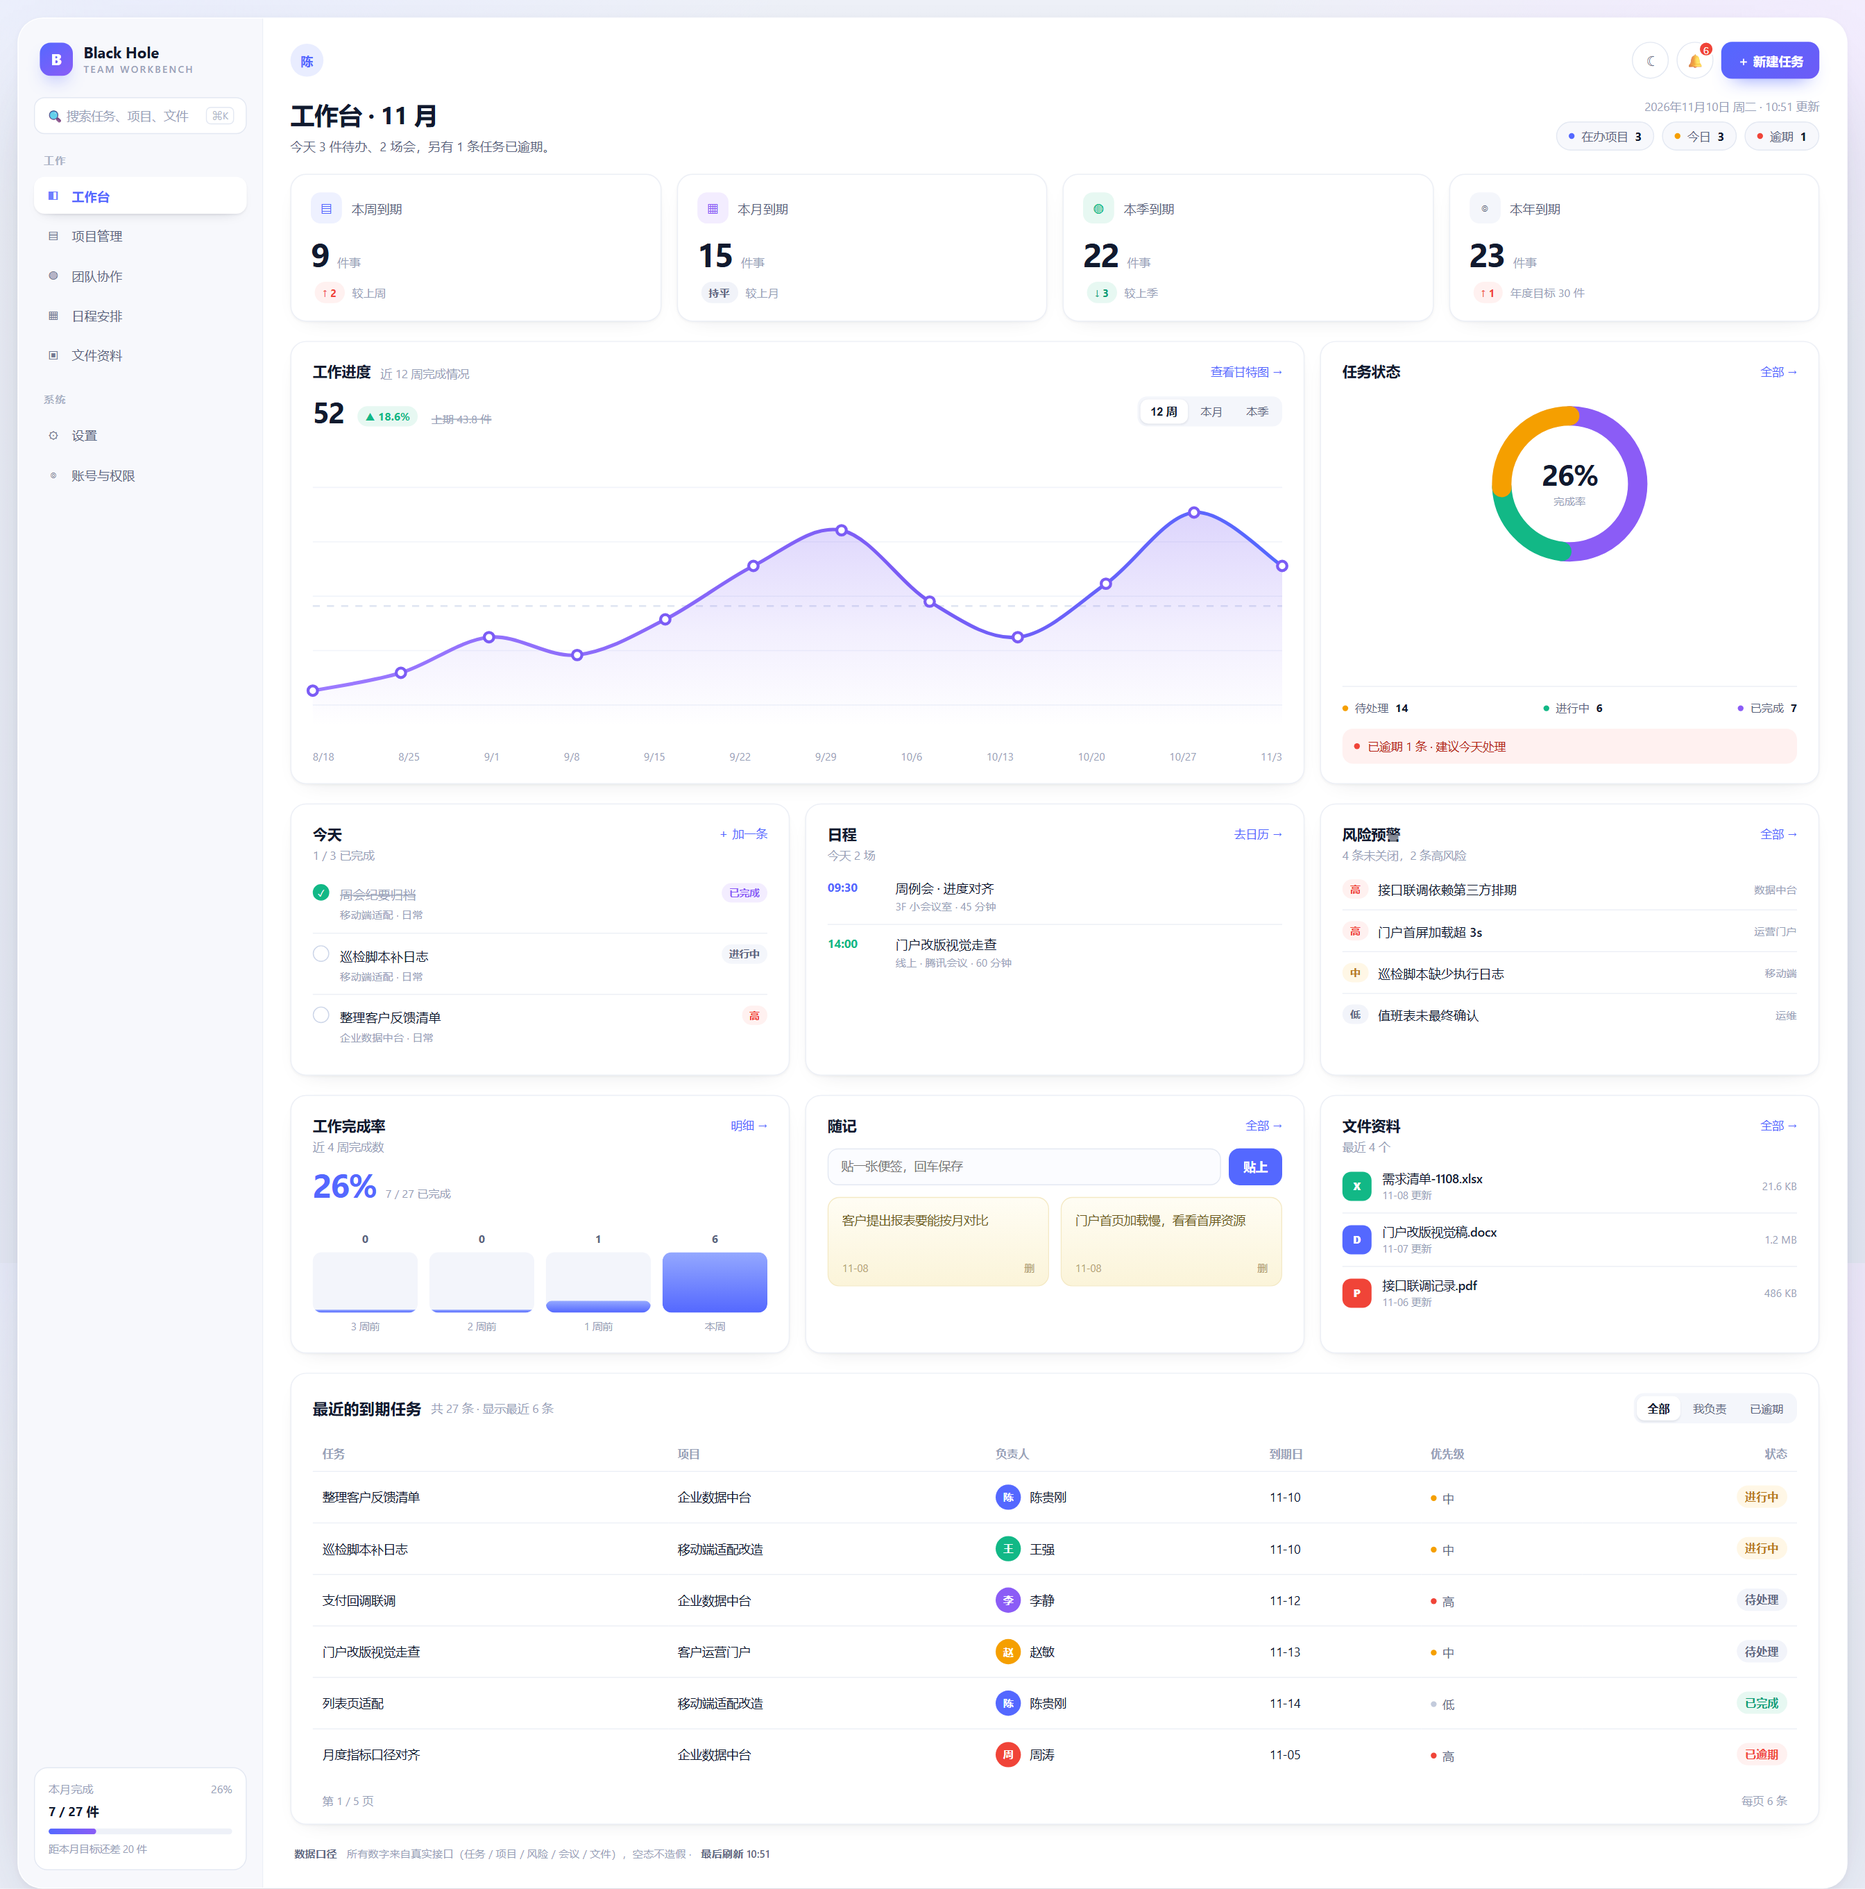
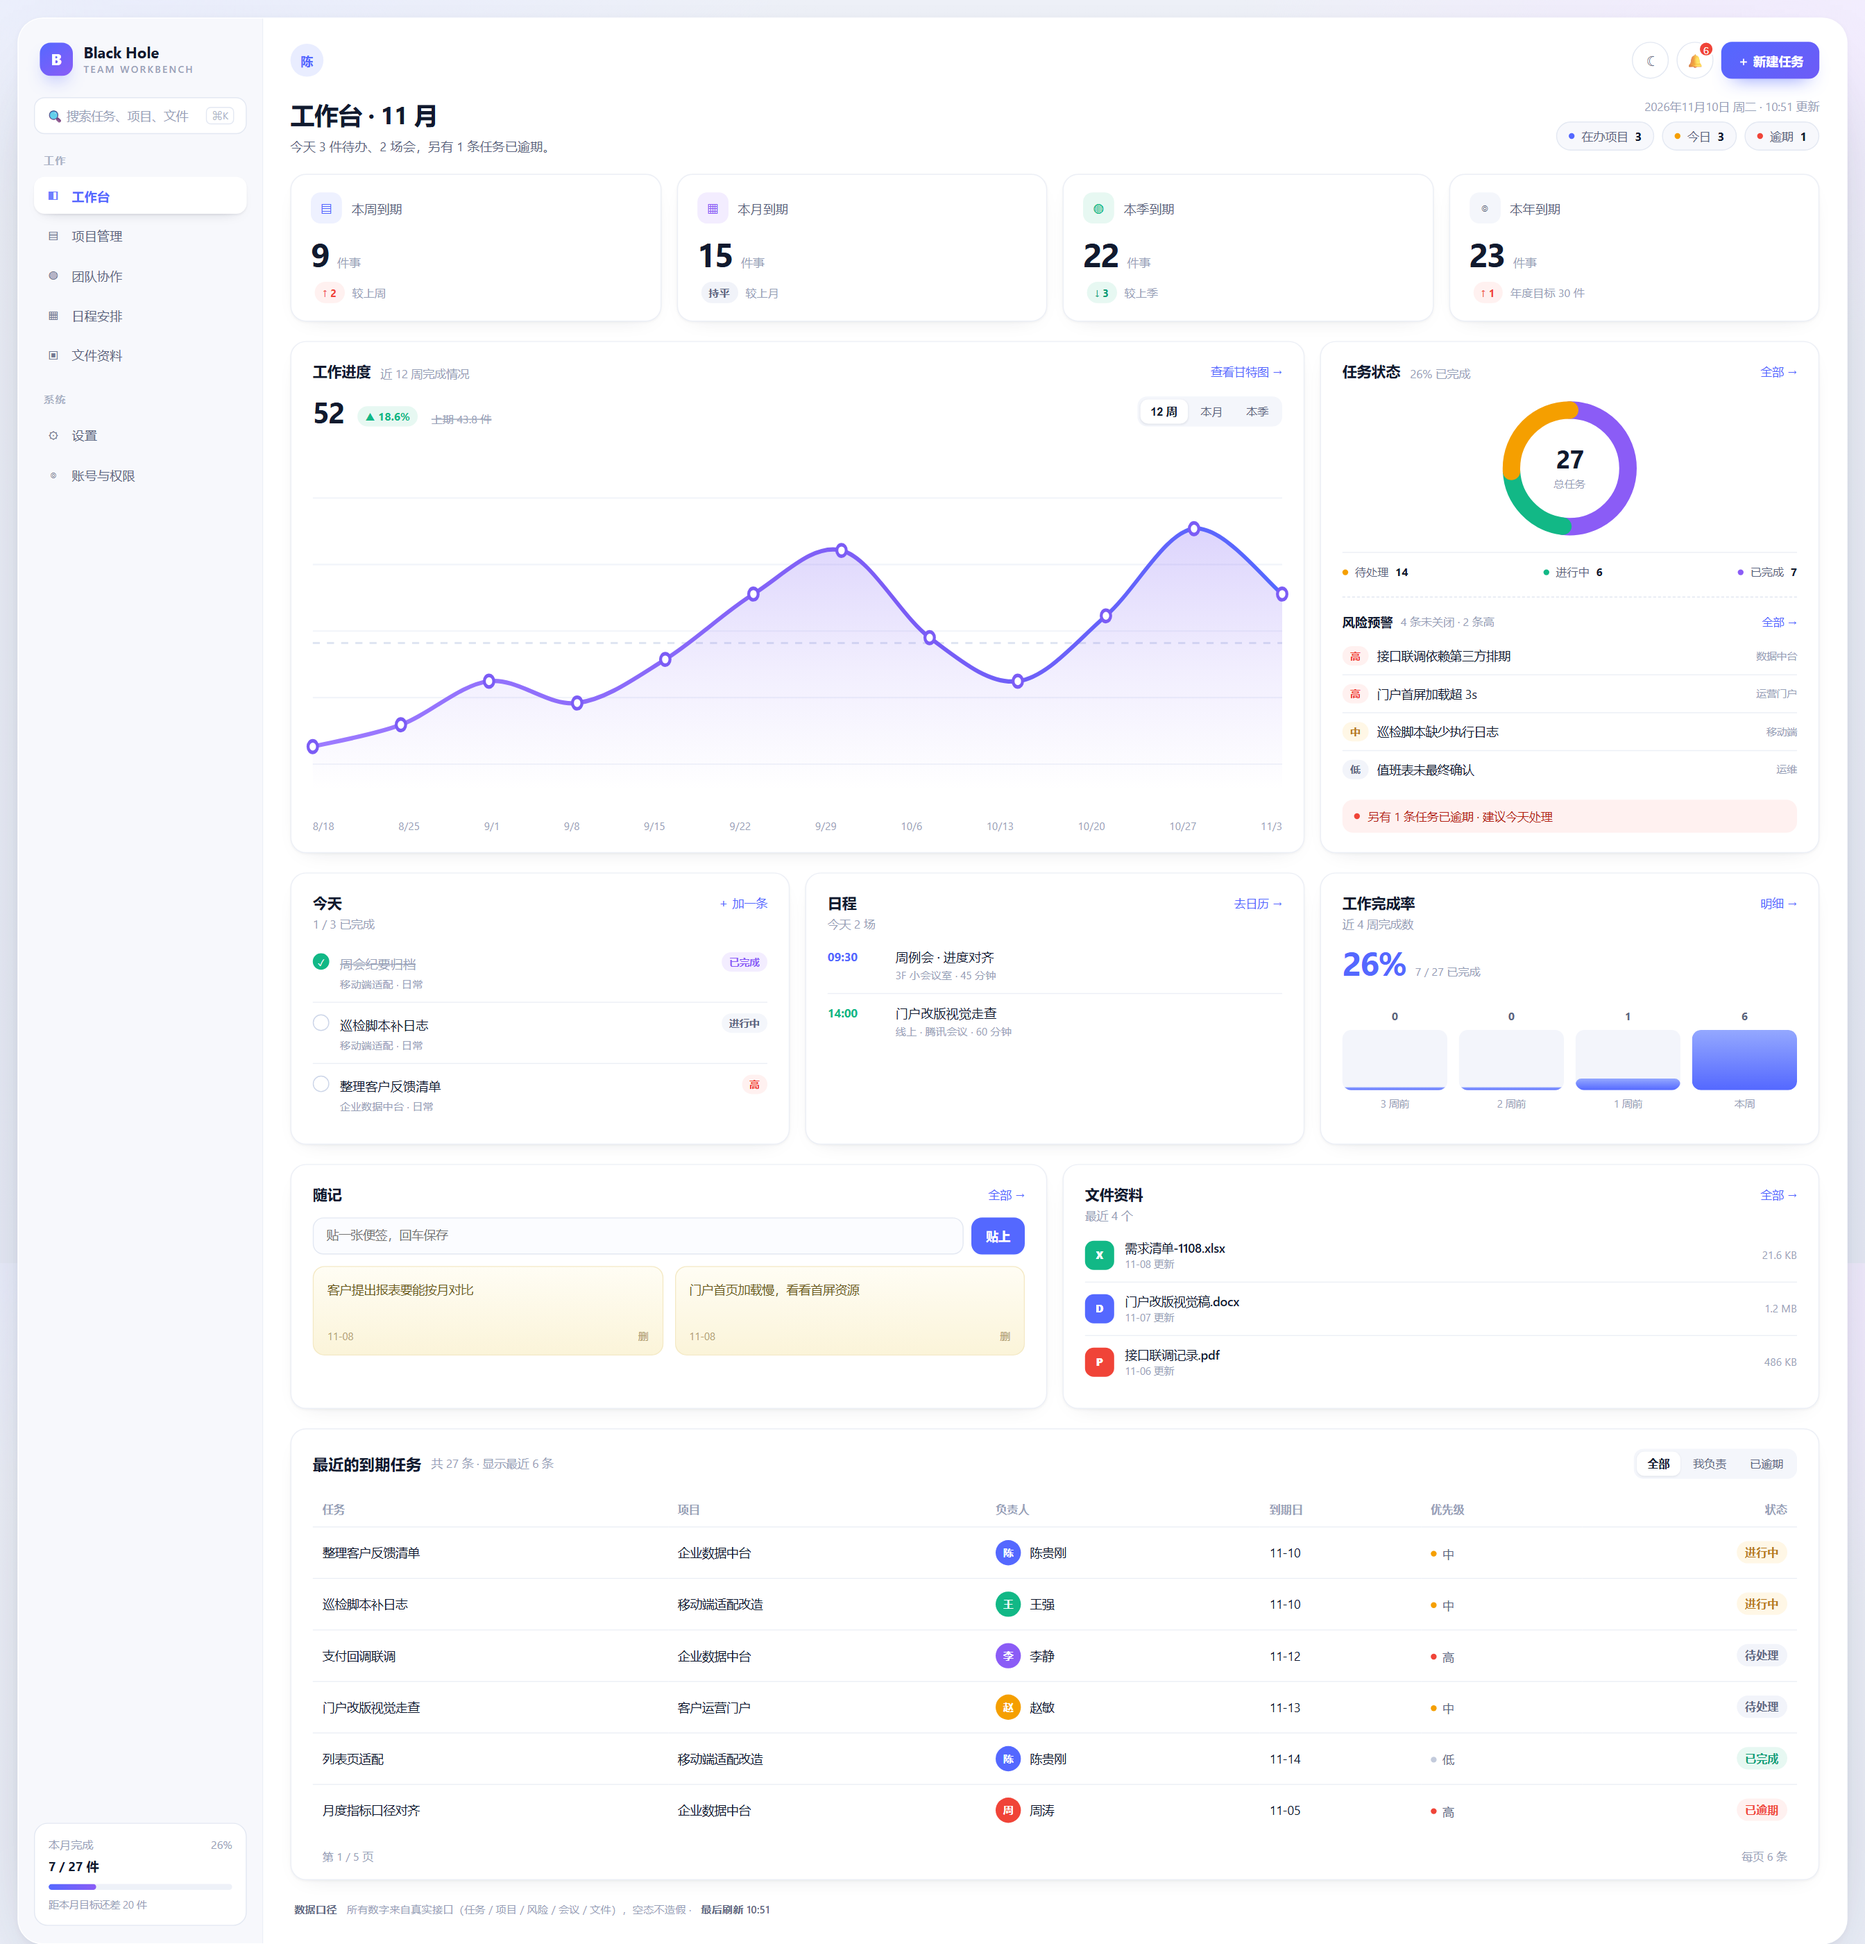
docs(demo): 风险预警并入任务状态卡，完成率补位成三列（方案 B 修订）
- 任务状态卡：环图(152) + 总任务数 + 三行图例 + 虚线分隔的「风险预警」小节(4 条)
  + 底部逾期提示 —— 原来那片空白被填满，风险也不用单独占一格
- 删掉独立的「风险预警」卡；工作完成率补到 今天/日程 这一行，凑成整齐三块
- 随记、文件资料从 4 列改 6 列，横向更舒展
- 自检：12 个卡块、表格 6 行、无 console 错误

diff --git a/docs/demo/workbench-demo.html b/docs/demo/workbench-demo.html
@@ -148,7 +148,17 @@
   .lg{display:flex;justify-content:space-between;margin-top:auto;padding-top:14px;border-top:1px solid var(--line)}
   .lg div{display:flex;align-items:center;gap:7px;font-size:11.5px;color:var(--text-2)}
   .lg b{color:var(--text);font-weight:700}
-  .warn-strip{display:flex;align-items:center;gap:8px;margin-top:14px;padding:10px 12px;border-radius:11px;background:var(--red-soft);font-size:12px;color:#b42318}
+  .warn-strip{display:flex;align-items:center;gap:8px;margin-top:12px;padding:9px 12px;border-radius:11px;background:var(--red-soft);font-size:12px;color:#b42318}
+  /* 任务状态卡里的风险小节（与状态用一条虚线分隔，不再单独占一格） */
+  .subsec{display:flex;align-items:center;gap:8px;margin:18px 0 2px;padding-top:16px;border-top:1px dashed var(--line-2)}
+  .subsec h4{margin:0;font-size:13px;font-weight:700}
+  .subsec .cnt{font-size:11.5px;color:var(--muted)}
+  .subsec .more{margin-left:auto;font-size:11.5px;color:var(--brand);text-decoration:none}
+  .risk-mini{display:flex;flex-direction:column;margin-top:6px}
+  .rm{display:grid;grid-template-columns:auto minmax(0,1fr) auto;gap:9px;align-items:center;padding:9px 0}
+  .rm + .rm{border-top:1px solid var(--line)}
+  .rm .tt{font-size:12.5px;overflow:hidden;text-overflow:ellipsis;white-space:nowrap}
+  .rm .pj{font-size:10.5px;color:var(--muted);white-space:nowrap}
 
   /* 三列小卡 */
   .c4{grid-column:span 4}
@@ -193,7 +203,7 @@
   .bc .lb{font-size:10.5px;color:var(--muted);white-space:nowrap}
 
   /* 便签 */
-  .notes{grid-column:span 4}
+  .notes{grid-column:span 6}
   .note-add{display:flex;gap:8px;margin:14px 0 12px}
   .note-add input{flex:1;height:38px;border-radius:11px;border:1px solid var(--line-2);background:#fbfcff;padding:0 13px;font-size:12.5px;outline:none;transition:.15s}
   .note-add input:focus{border-color:#c2cdff;box-shadow:0 0 0 3px rgba(84,104,255,.1);background:#fff}
@@ -204,7 +214,7 @@
   .sticky .f{display:flex;justify-content:space-between;font-size:10.5px;color:#b3a271;margin-top:8px}
 
   /* 文件 */
-  .files{grid-column:span 4}
+  .files{grid-column:span 6}
   .file{display:grid;grid-template-columns:30px minmax(0,1fr) auto;gap:11px;align-items:center;padding:11px 0}
   .file + .file{border-top:1px solid var(--line)}
   .file .ic{width:30px;height:30px;border-radius:9px;display:grid;place-items:center;font-size:11px;font-weight:800;color:#fff}
@@ -384,25 +394,39 @@
       </div>
 
       <div class="card status-card">
-        <div class="card-h"><h3>任务状态</h3><a class="more" href="#">全部 →</a></div>
-        <div class="donut">
-          <svg width="176" height="176" viewBox="0 0 176 176">
-            <circle cx="88" cy="88" r="70" fill="none" stroke="#f2f4fa" stroke-width="20"/>
-            <circle cx="88" cy="88" r="70" fill="none" stroke="#8b5cf6" stroke-width="20" stroke-linecap="round"
-                    stroke-dasharray="227.8 439.8" stroke-dashoffset="0" transform="rotate(-90 88 88)"/>
-            <circle cx="88" cy="88" r="70" fill="none" stroke="#12b886" stroke-width="20" stroke-linecap="round"
-                    stroke-dasharray="97.7 439.8" stroke-dashoffset="-227.8" transform="rotate(-90 88 88)"/>
-            <circle cx="88" cy="88" r="70" fill="none" stroke="#f59f00" stroke-width="20" stroke-linecap="round"
-                    stroke-dasharray="114.3 439.8" stroke-dashoffset="-325.5" transform="rotate(-90 88 88)"/>
+        <div class="card-h"><h3>任务状态</h3><span class="card-sub">26% 已完成</span><a class="more" href="#">全部 →</a></div>
+
+        <div class="donut" style="margin:10px 0 2px">
+          <svg width="152" height="152" viewBox="0 0 152 152">
+            <circle cx="76" cy="76" r="60" fill="none" stroke="#f2f4fa" stroke-width="18"/>
+            <circle cx="76" cy="76" r="60" fill="none" stroke="#8b5cf6" stroke-width="18" stroke-linecap="round"
+                    stroke-dasharray="195.3 377" stroke-dashoffset="0" transform="rotate(-90 76 76)"/>
+            <circle cx="76" cy="76" r="60" fill="none" stroke="#12b886" stroke-width="18" stroke-linecap="round"
+                    stroke-dasharray="83.8 377" stroke-dashoffset="-195.3" transform="rotate(-90 76 76)"/>
+            <circle cx="76" cy="76" r="60" fill="none" stroke="#f59f00" stroke-width="18" stroke-linecap="round"
+                    stroke-dasharray="97.9 377" stroke-dashoffset="-279.1" transform="rotate(-90 76 76)"/>
           </svg>
-          <div class="center"><b>26%</b><span>完成率</span></div>
+          <div class="center"><b style="font-size:26px">27</b><span>总任务</span></div>
         </div>
-        <div class="lg">
+
+        <div class="lg" style="margin-top:8px;padding-top:12px">
           <div><i class="sp" style="background:#f59f00"></i>待处理 <b>14</b></div>
           <div><i class="sp" style="background:#12b886"></i>进行中 <b>6</b></div>
           <div><i class="sp" style="background:#8b5cf6"></i>已完成 <b>7</b></div>
         </div>
-        <div class="warn-strip"><i class="sp" style="background:#f04438"></i>已逾期 1 条 · 建议今天处理</div>
+
+        <div class="subsec">
+          <h4>风险预警</h4><span class="cnt">4 条未关闭 · 2 条高</span>
+          <a class="more" href="#">全部 →</a>
+        </div>
+        <div class="risk-mini">
+          <div class="rm"><span class="lv h">高</span><span class="tt">接口联调依赖第三方排期</span><span class="pj">数据中台</span></div>
+          <div class="rm"><span class="lv h">高</span><span class="tt">门户首屏加载超 3s</span><span class="pj">运营门户</span></div>
+          <div class="rm"><span class="lv m">中</span><span class="tt">巡检脚本缺少执行日志</span><span class="pj">移动端</span></div>
+          <div class="rm"><span class="lv l">低</span><span class="tt">值班表未最终确认</span><span class="pj">运维</span></div>
+        </div>
+
+        <div class="warn-strip"><i class="sp" style="background:#f04438"></i>另有 1 条任务已逾期 · 建议今天处理</div>
       </div>
     </section>
 
@@ -427,20 +451,6 @@
         </div>
       </div>
 
-      <div class="card c4">
-        <div class="card-h"><h3>风险预警</h3><a class="more" href="#">全部 →</a></div>
-        <p class="card-sub">4 条未关闭，2 条高风险</p>
-        <div class="list" style="margin-top:6px">
-          <div class="rk"><span class="lv h">高</span><span class="tt">接口联调依赖第三方排期</span><span class="pj">数据中台</span></div>
-          <div class="rk"><span class="lv h">高</span><span class="tt">门户首屏加载超 3s</span><span class="pj">运营门户</span></div>
-          <div class="rk"><span class="lv m">中</span><span class="tt">巡检脚本缺少执行日志</span><span class="pj">移动端</span></div>
-          <div class="rk"><span class="lv l">低</span><span class="tt">值班表未最终确认</span><span class="pj">运维</span></div>
-        </div>
-      </div>
-    </section>
-
-    <!-- 完成率 / 随记 / 文件 -->
-    <section class="row">
       <div class="card rate">
         <div class="card-h"><h3>工作完成率</h3><a class="more" href="#">明细 →</a></div>
         <p class="card-sub">近 4 周完成数</p>
@@ -453,6 +463,10 @@
         </div>
       </div>
 
+    </section>
+
+    <!-- 随记 / 文件（完成率已并入上一行） -->
+    <section class="row">
       <div class="card notes">
         <div class="card-h"><h3>随记</h3><a class="more" href="#">全部 →</a></div>
         <div class="note-add"><input placeholder="贴一张便签，回车保存" /><button>贴上</button></div>
